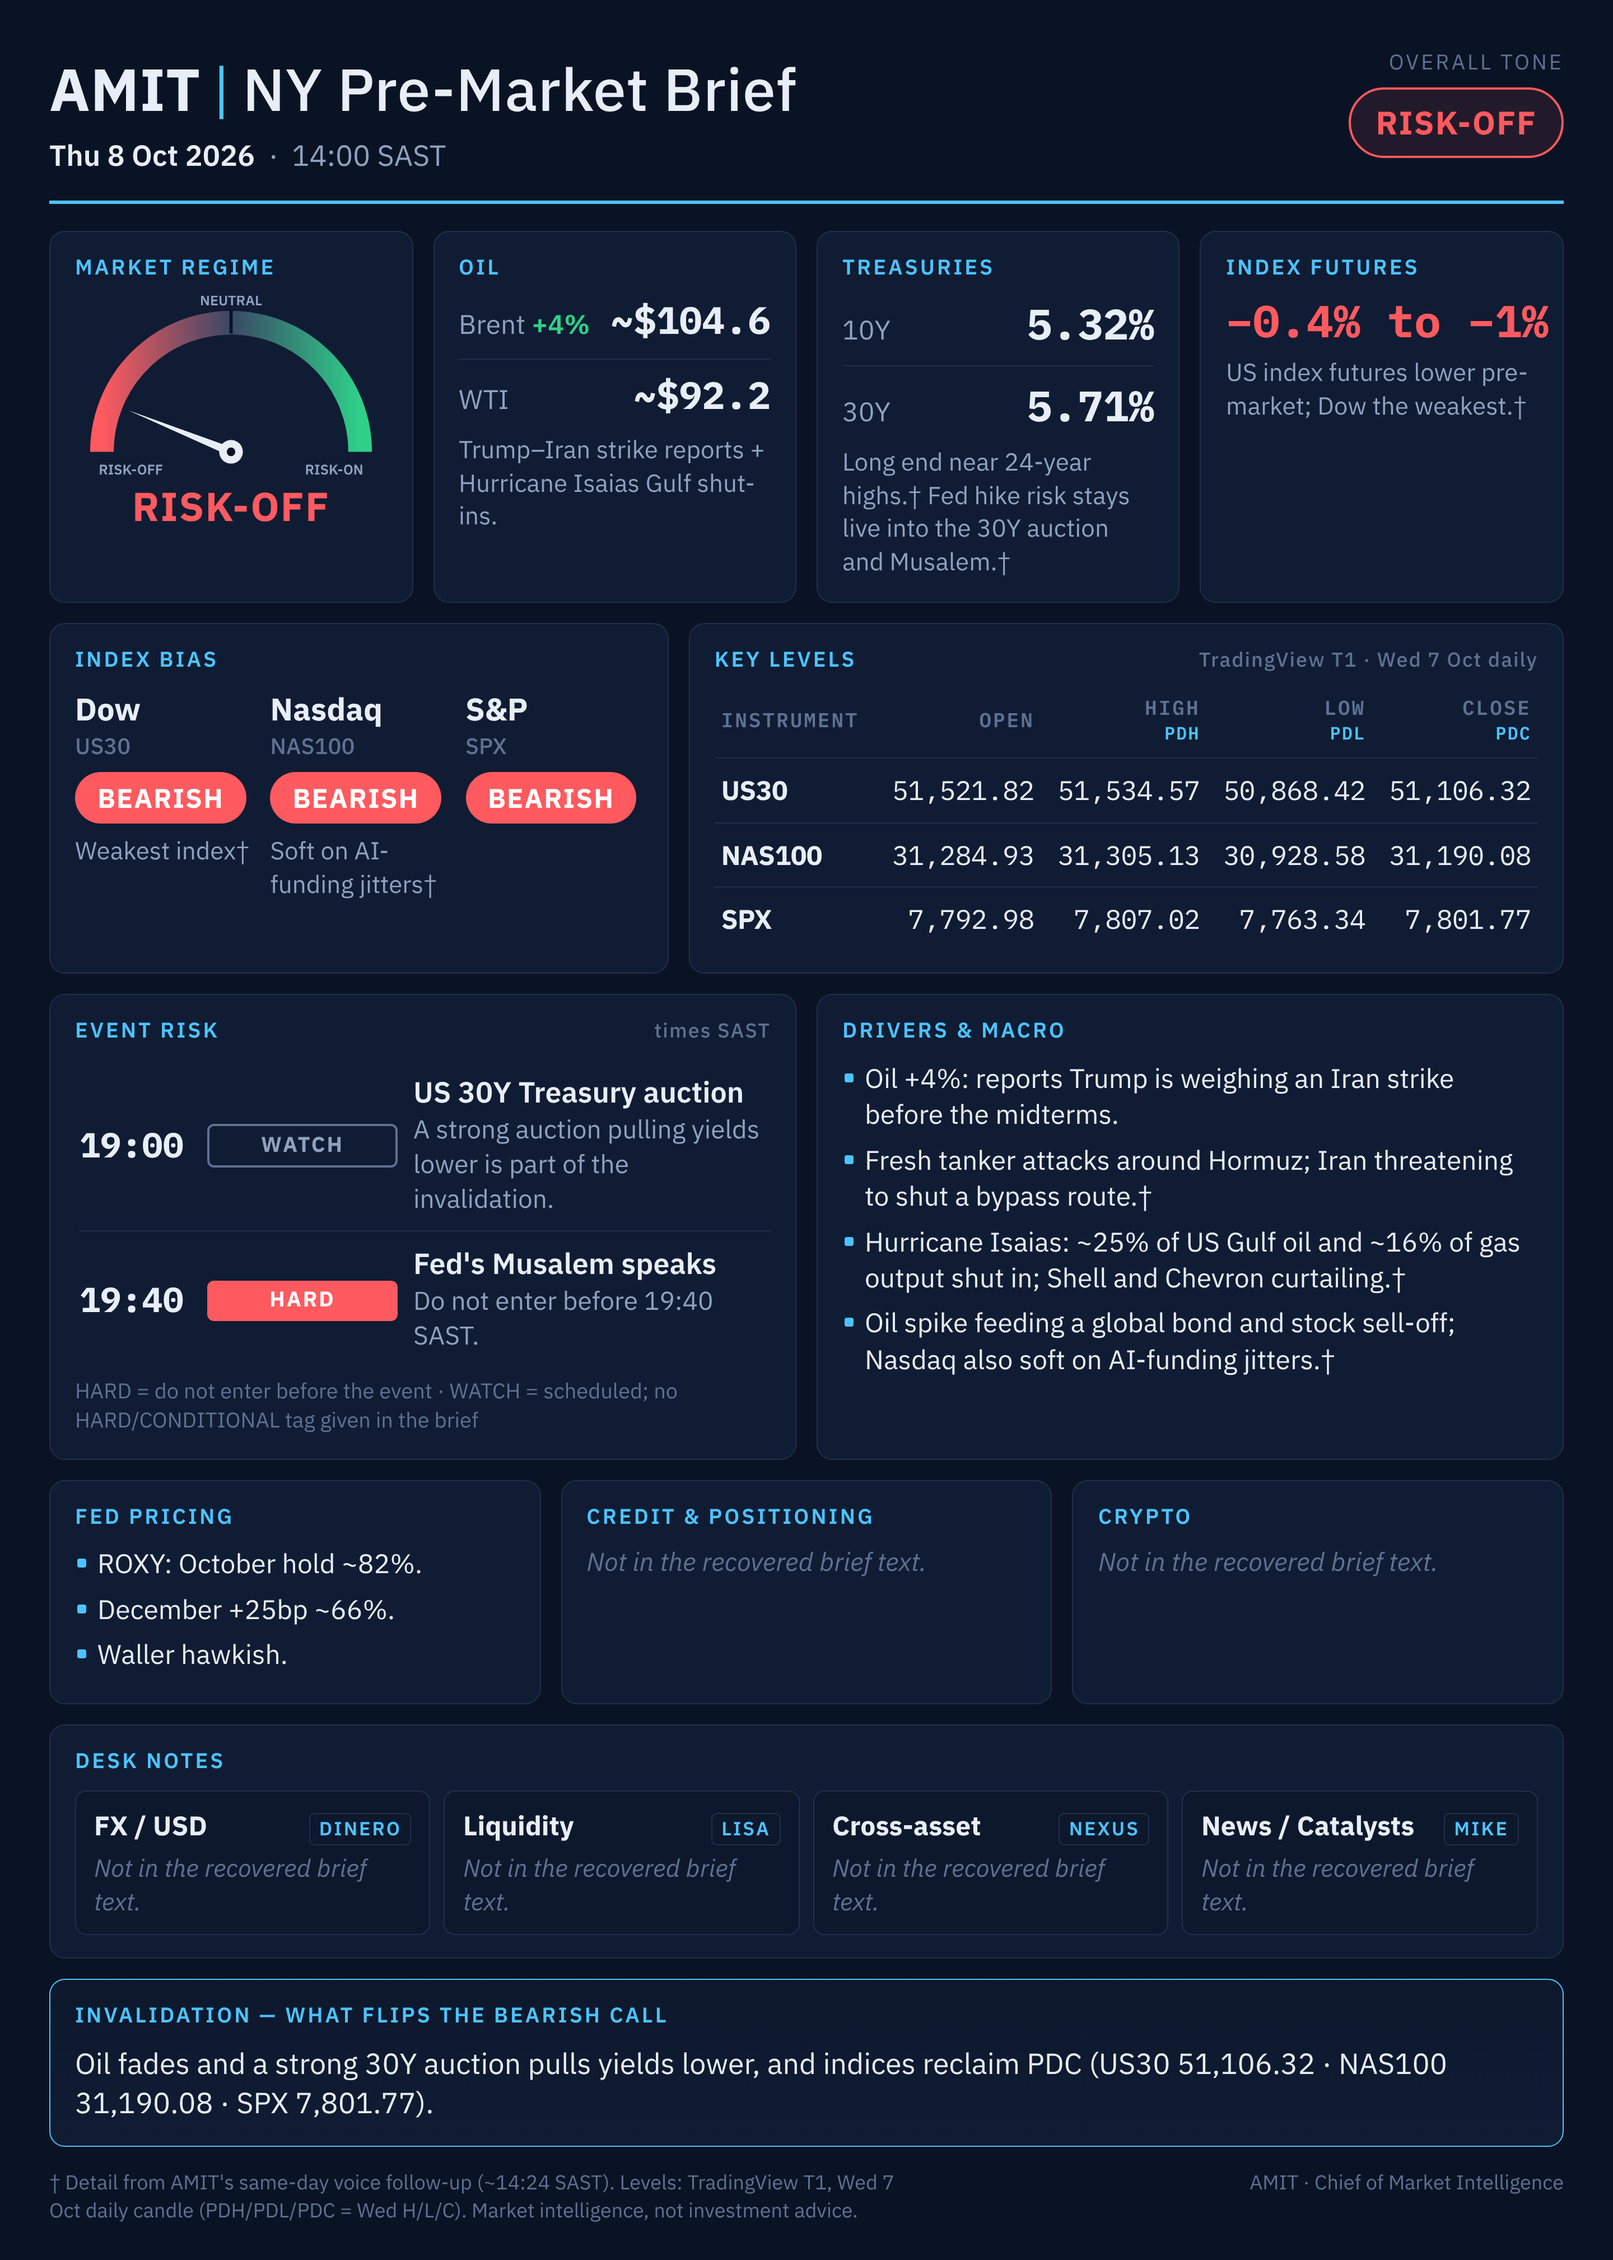
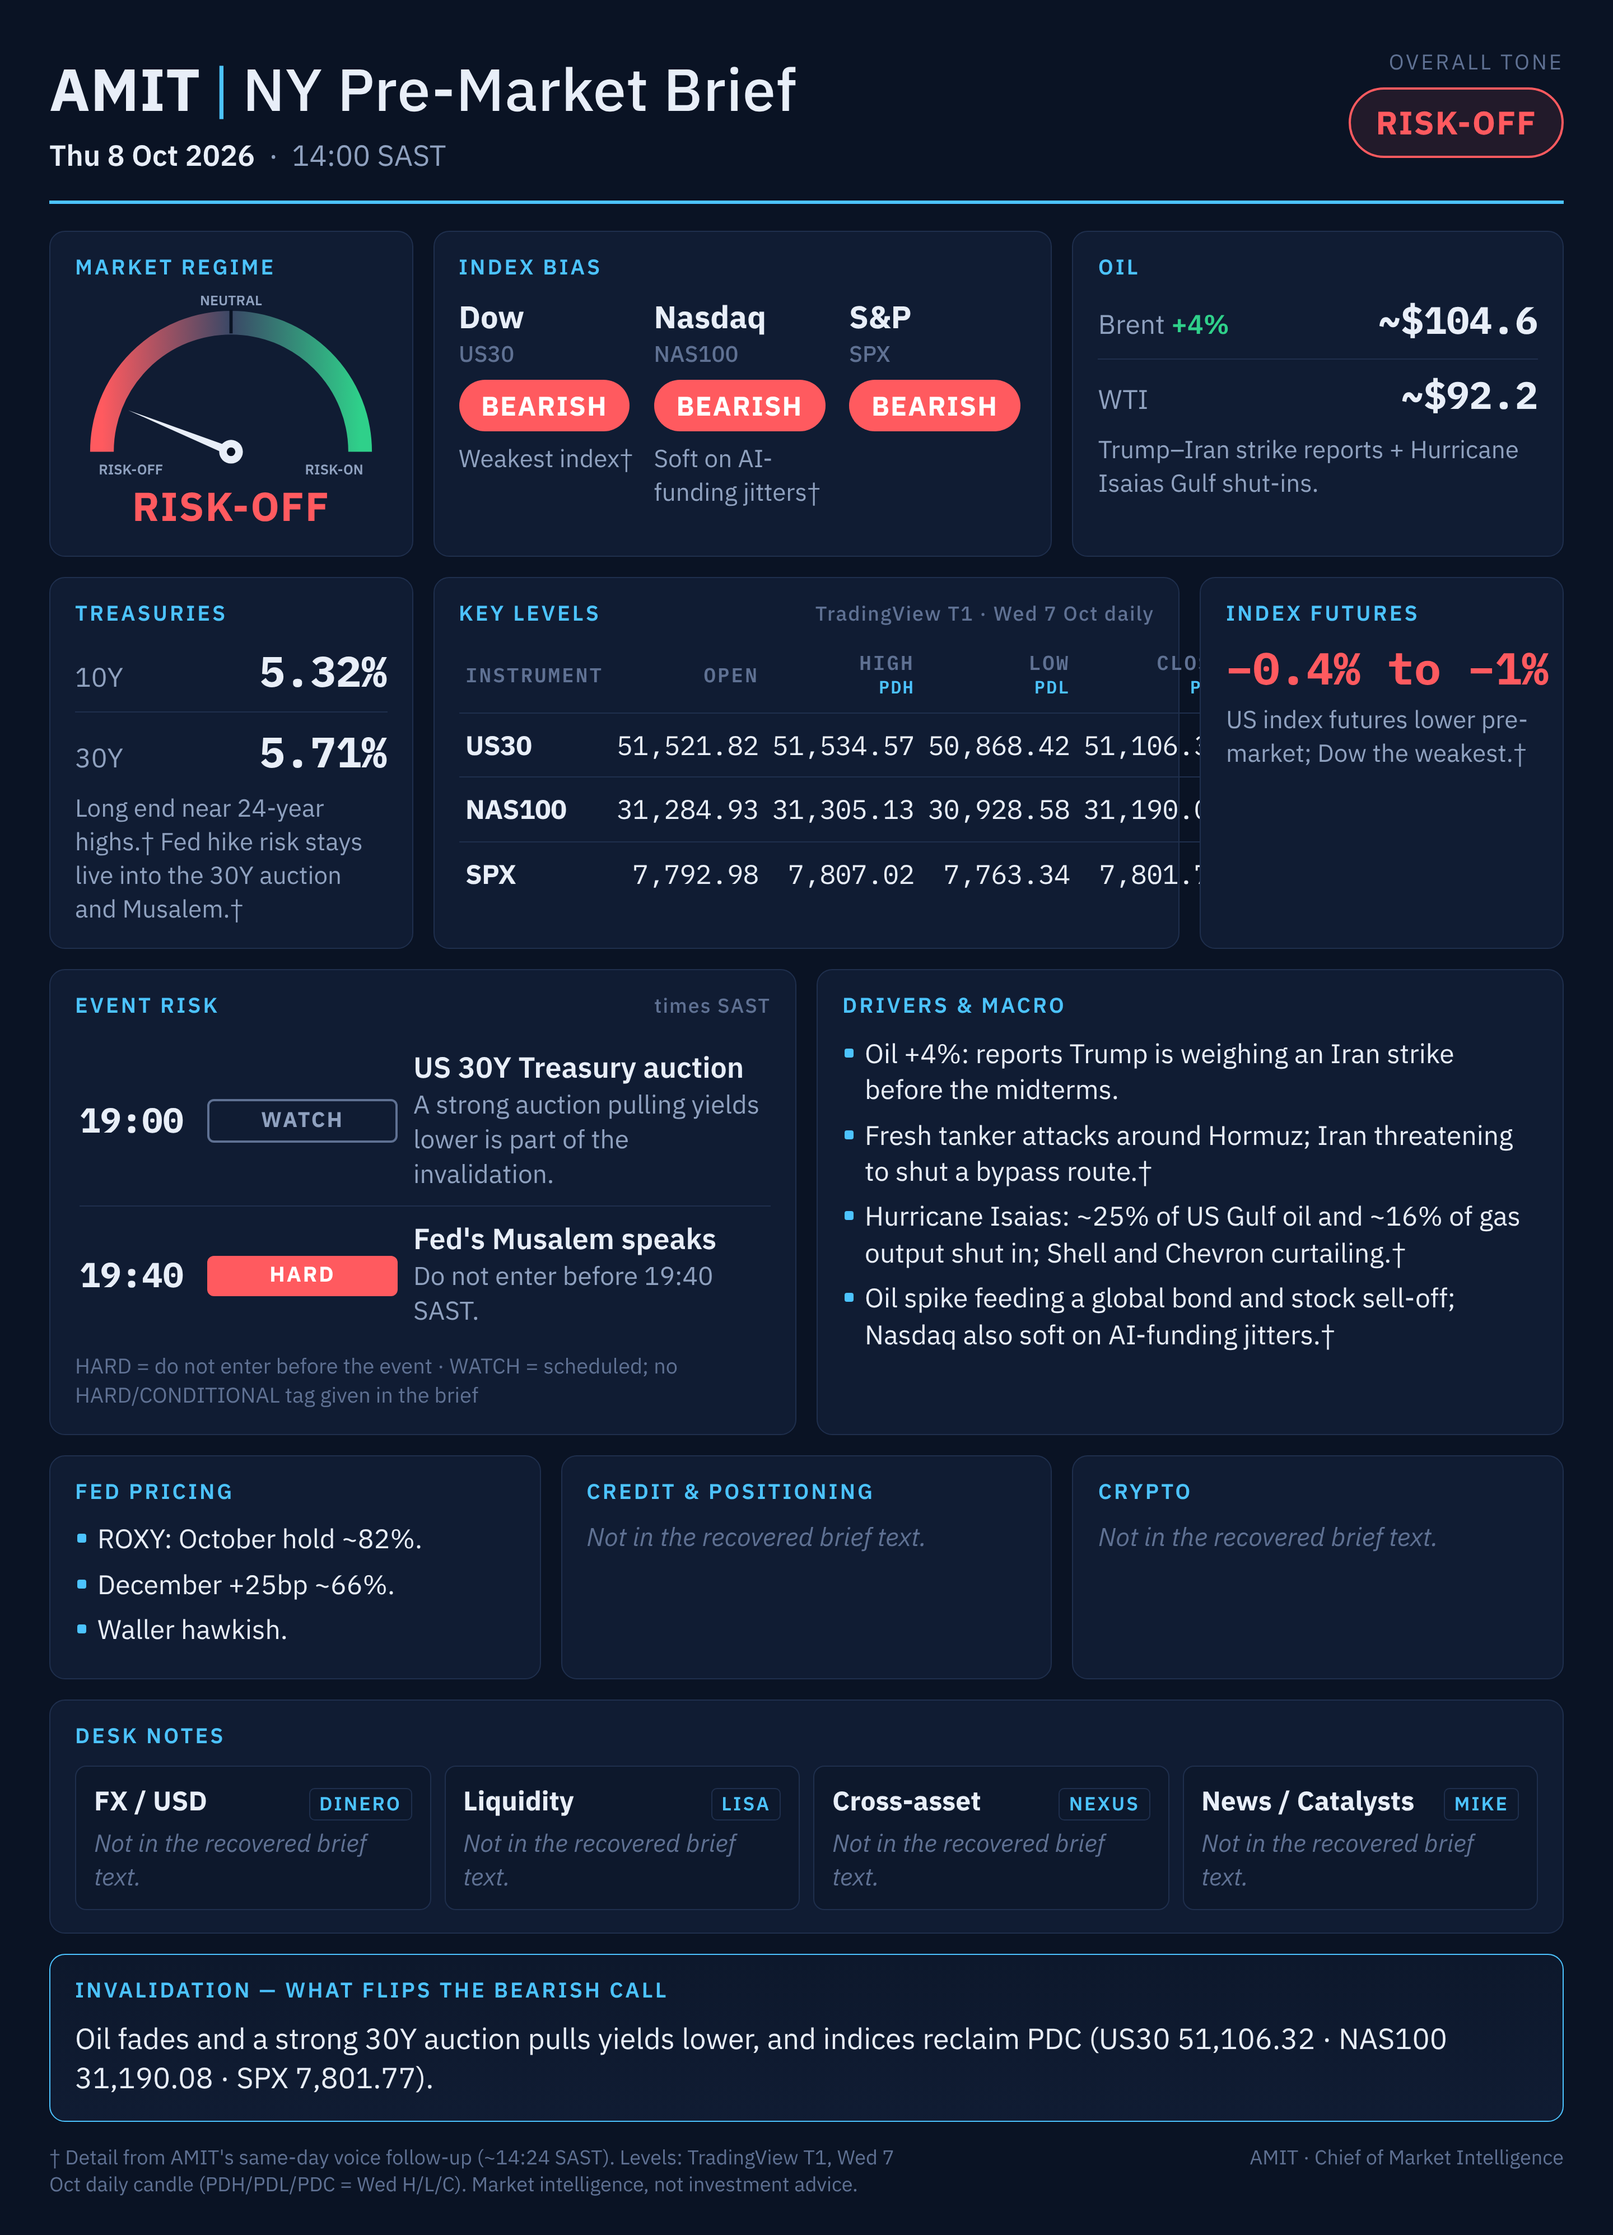
Move Index Bias next to Regime

diff --git a/index.html b/index.html
@@ -120,7 +120,8 @@
   .wrap{padding:44px 44px 32px}
   .a-regime,.a-oil,.a-ust,.a-fut{grid-column:span 3}
   .a-bias{grid-column:span 5}
-  .a-lvl{grid-column:span 7}
+  .a-lvl{grid-column:span 6}
+  .a-oil{grid-column:span 4}
   .a-ev,.a-drv{grid-column:span 6}
   .a-lvl td{font-size:24px;padding:12px 6px}
   .a-lvl th{padding:6px 6px 10px}
@@ -184,6 +185,10 @@ window.addEventListener('resize',fit);document.addEventListener('DOMContentLoade
       </svg>
       <div class="call risk-off">Risk-Off</div>
     </section>
+    <section class="panel a-bias span4">
+      <div class="ph">Index bias</div>
+      <div style="display:grid;grid-template-columns:repeat(3,1fr);gap:16px"><div class="bias"><div class="idx">Dow<span class="tick">US30</span></div><span class="pill bearish">Bearish</span><div class="why">Weakest index†</div></div><div class="bias"><div class="idx">Nasdaq<span class="tick">NAS100</span></div><span class="pill bearish">Bearish</span><div class="why">Soft on AI-funding jitters†</div></div><div class="bias"><div class="idx">S&amp;P<span class="tick">SPX</span></div><span class="pill bearish">Bearish</span></div></div>
+    </section>
 
     <section class="panel a-oil span2 kpi">
       <div class="ph">Oil</div>
@@ -198,25 +203,17 @@ window.addEventListener('resize',fit);document.addEventListener('DOMContentLoade
       <div class="row"><span class="k">30Y</span><span class="v mono">5.71%</span></div>
       <div class="note">Long end near 24-year highs.† Fed hike risk stays live into the 30Y auction and Musalem.†</div>
     </section>
-
-    <!-- ===== Row 2: Futures KPI + bias tiles ===== -->
-    <section class="panel a-fut span2 kpi">
-      <div class="ph">Index futures</div>
-      <div class="big mono down">−0.4% to −1%</div>
-      <div class="note">US index futures lower pre-market; Dow the weakest.†</div>
-    </section>
-    <section class="panel a-bias span4">
-      <div class="ph">Index bias</div>
-      <div style="display:grid;grid-template-columns:repeat(3,1fr);gap:16px"><div class="bias"><div class="idx">Dow<span class="tick">US30</span></div><span class="pill bearish">Bearish</span><div class="why">Weakest index†</div></div><div class="bias"><div class="idx">Nasdaq<span class="tick">NAS100</span></div><span class="pill bearish">Bearish</span><div class="why">Soft on AI-funding jitters†</div></div><div class="bias"><div class="idx">S&amp;P<span class="tick">SPX</span></div><span class="pill bearish">Bearish</span></div></div>
-    </section>
-
-    <!-- ===== Row 3: Levels + Event timeline ===== -->
     <section class="panel a-lvl span6">
       <div class="ph">Key levels <span class="src">TradingView T1 · Wed 7 Oct daily</span></div>
       <table class="mono">
         <thead><tr><th>Instrument</th><th>Open</th><th>High<span class="s">PDH</span></th><th>Low<span class="s">PDL</span></th><th>Close<span class="s">PDC</span></th></tr></thead>
         <tbody><tr><td class="ins">US30</td><td>51,521.82</td><td>51,534.57</td><td>50,868.42</td><td>51,106.32</td></tr><tr><td class="ins">NAS100</td><td>31,284.93</td><td>31,305.13</td><td>30,928.58</td><td>31,190.08</td></tr><tr><td class="ins">SPX</td><td>7,792.98</td><td>7,807.02</td><td>7,763.34</td><td>7,801.77</td></tr></tbody>
       </table>
+    </section>
+    <section class="panel a-fut span2 kpi">
+      <div class="ph">Index futures</div>
+      <div class="big mono down">−0.4% to −1%</div>
+      <div class="note">US index futures lower pre-market; Dow the weakest.†</div>
     </section>
 
     <section class="panel a-ev span6">
